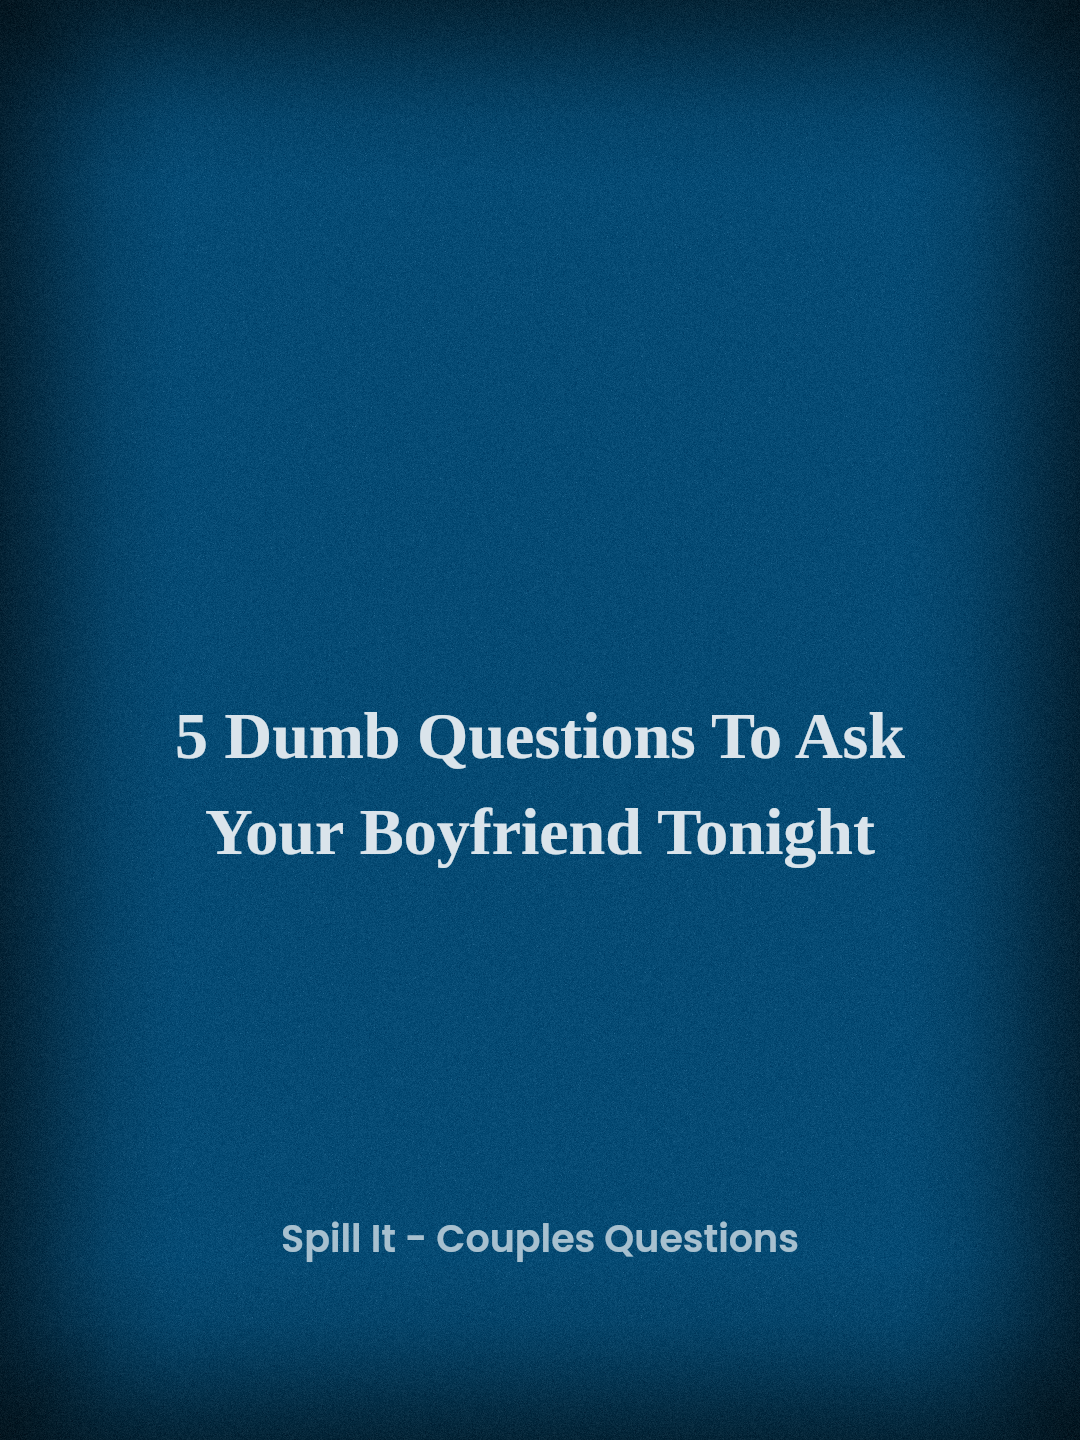
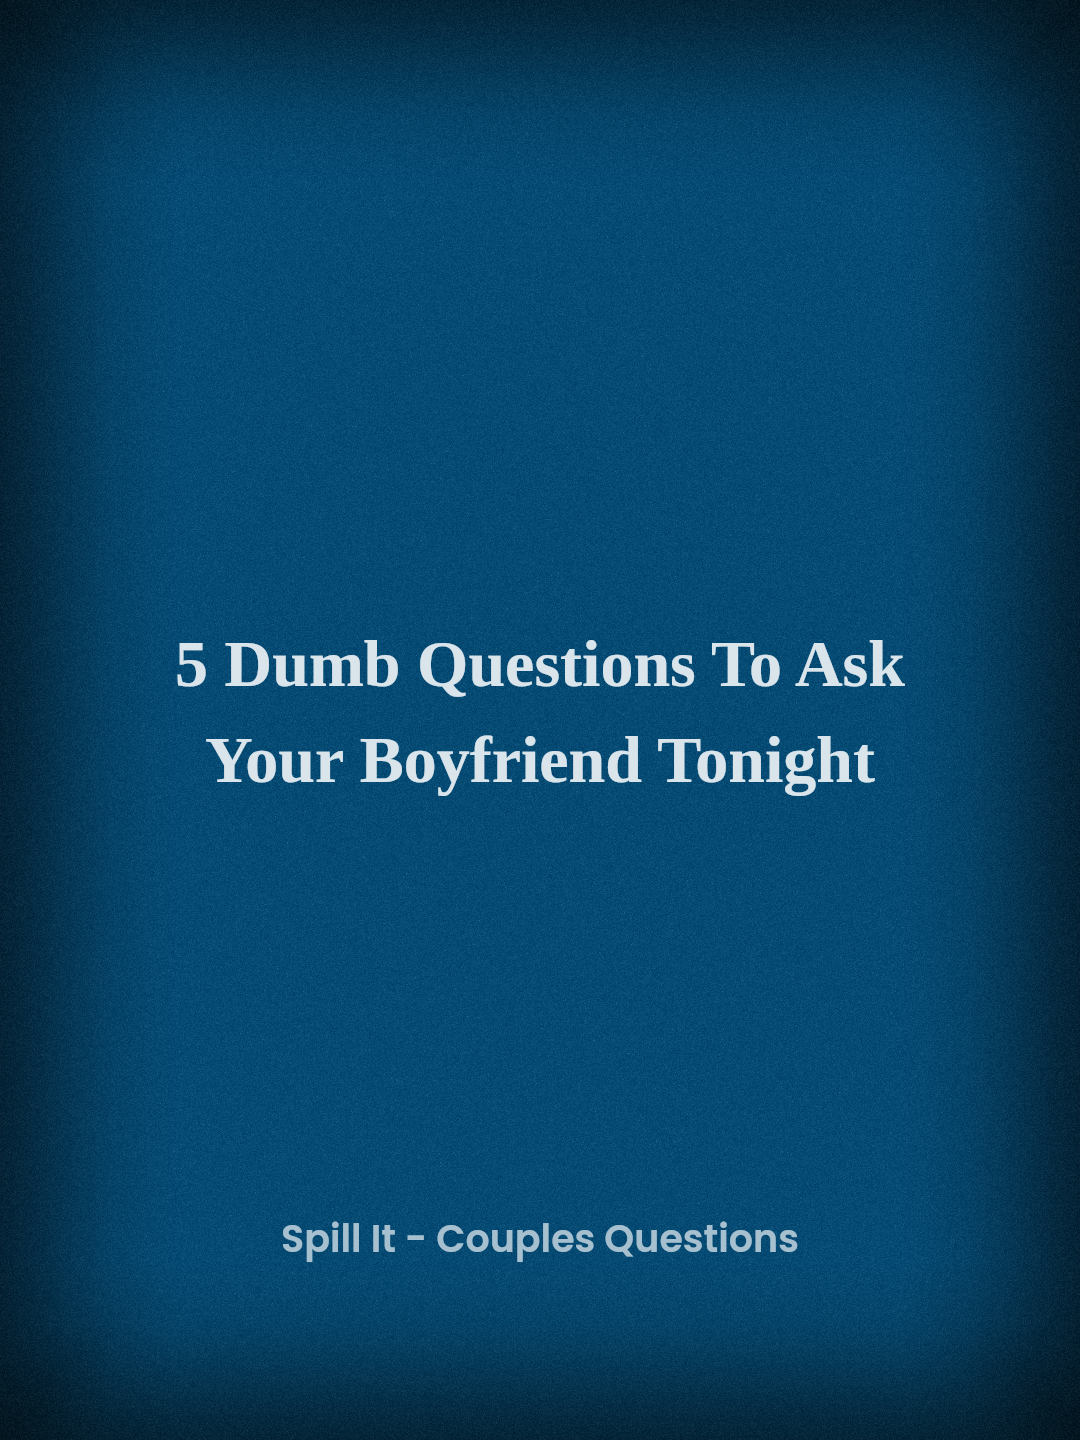
Center the ocean template cover title on the slide.
The cover ink block was placed at 55% of the height. It now sits on the canvas middle, with the same font, size, colour, and line wrapping.

Changed region(s): [[0.1528, 0.4375, 0.8556, 0.625]]

diff --git a/app/lib/image-template-20-ocean.ts b/app/lib/image-template-20-ocean.ts
@@ -73,8 +73,8 @@ const SHADE_Y: ReadonlyArray<readonly [number, number]> = [
 export const IMAGE_TEMPLATE20_COVER_SIZE = 0.061;
 export const IMAGE_TEMPLATE20_COVER_LEADING = 1.46;
 export const IMAGE_TEMPLATE20_COVER_WIDTH = 0.7;
-/** Vertical centre of the cover ink block. */
-export const IMAGE_TEMPLATE20_COVER_CENTER = 0.55;
+/** Vertical centre of the cover ink block. The title sits in the middle of the slide. */
+export const IMAGE_TEMPLATE20_COVER_CENTER = 0.5;
 
 /** Question body. Left edge and ink top measured on the reference questions. */
 export const IMAGE_TEMPLATE20_QUESTION_SIZE = 0.0426;
